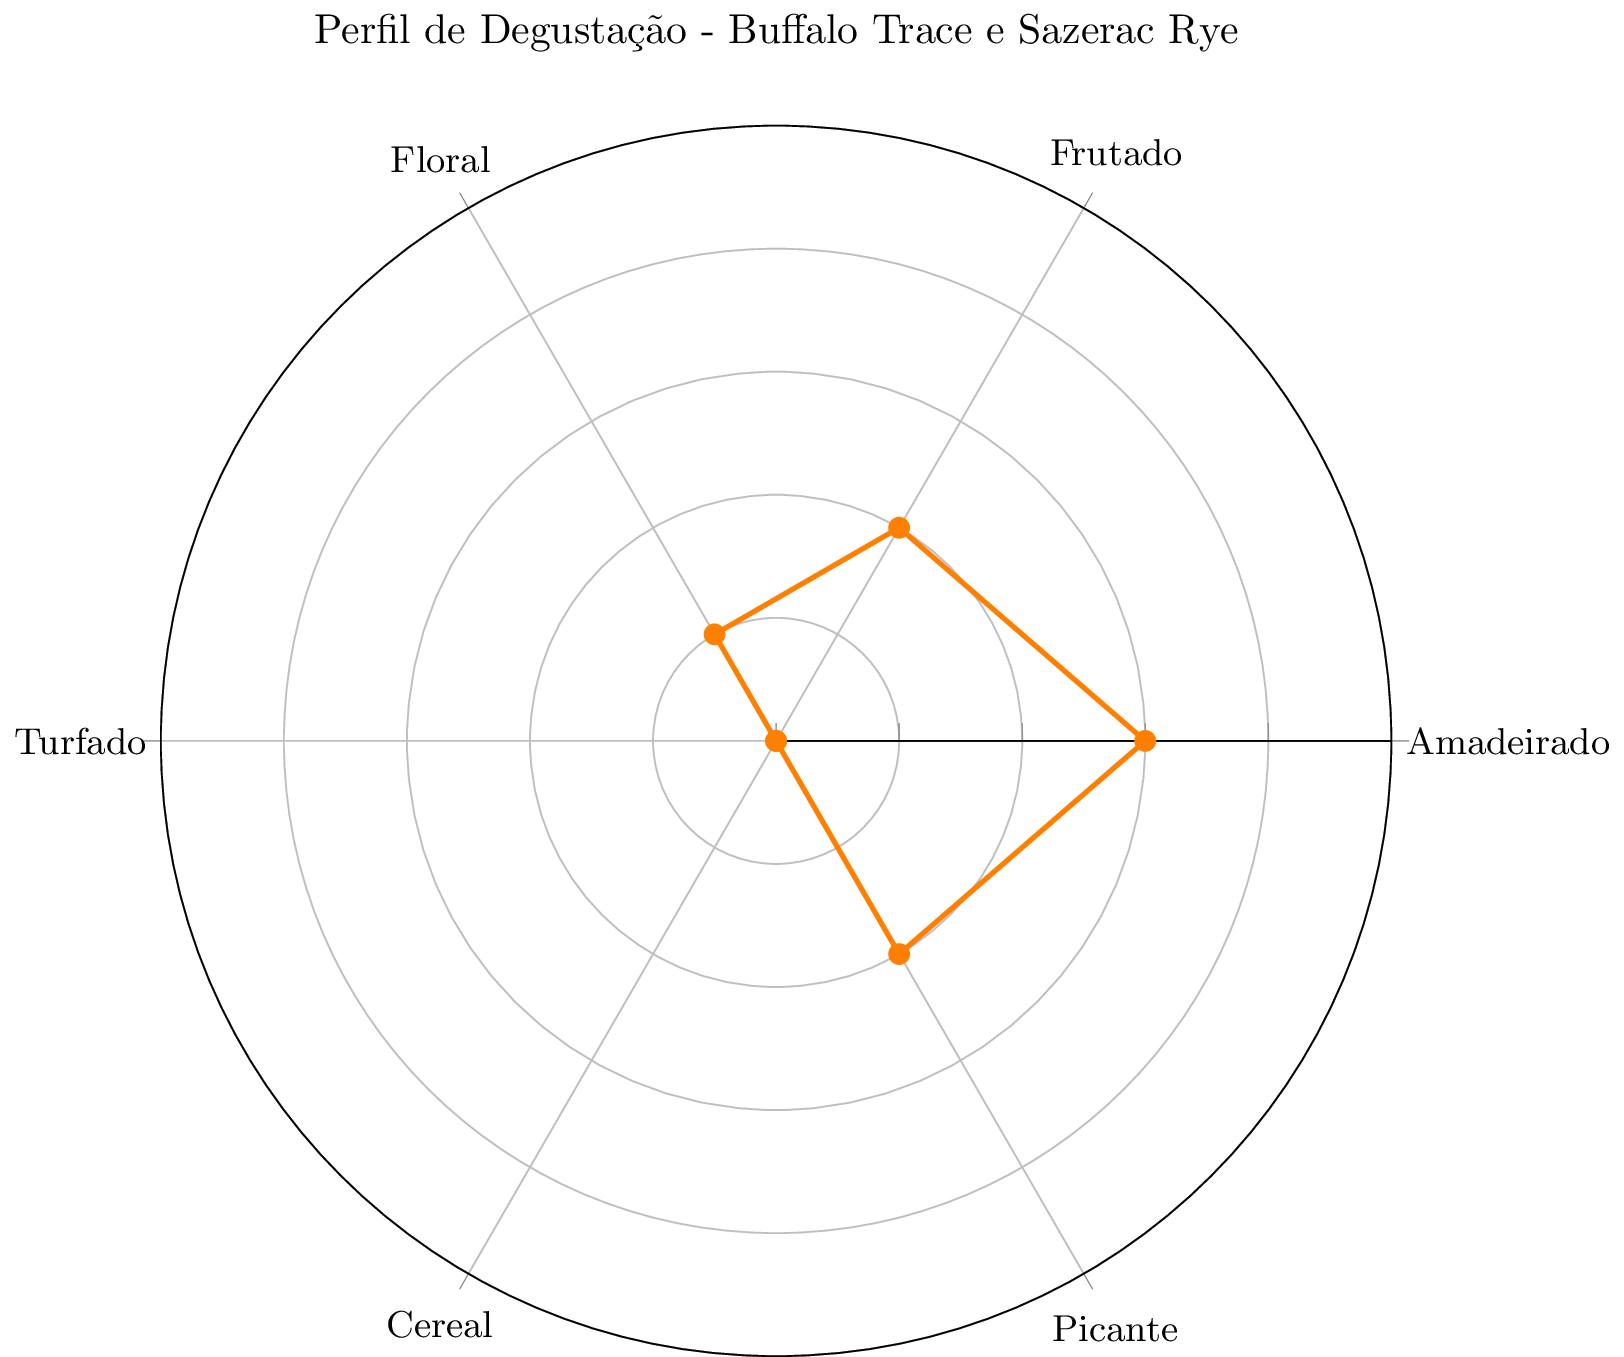
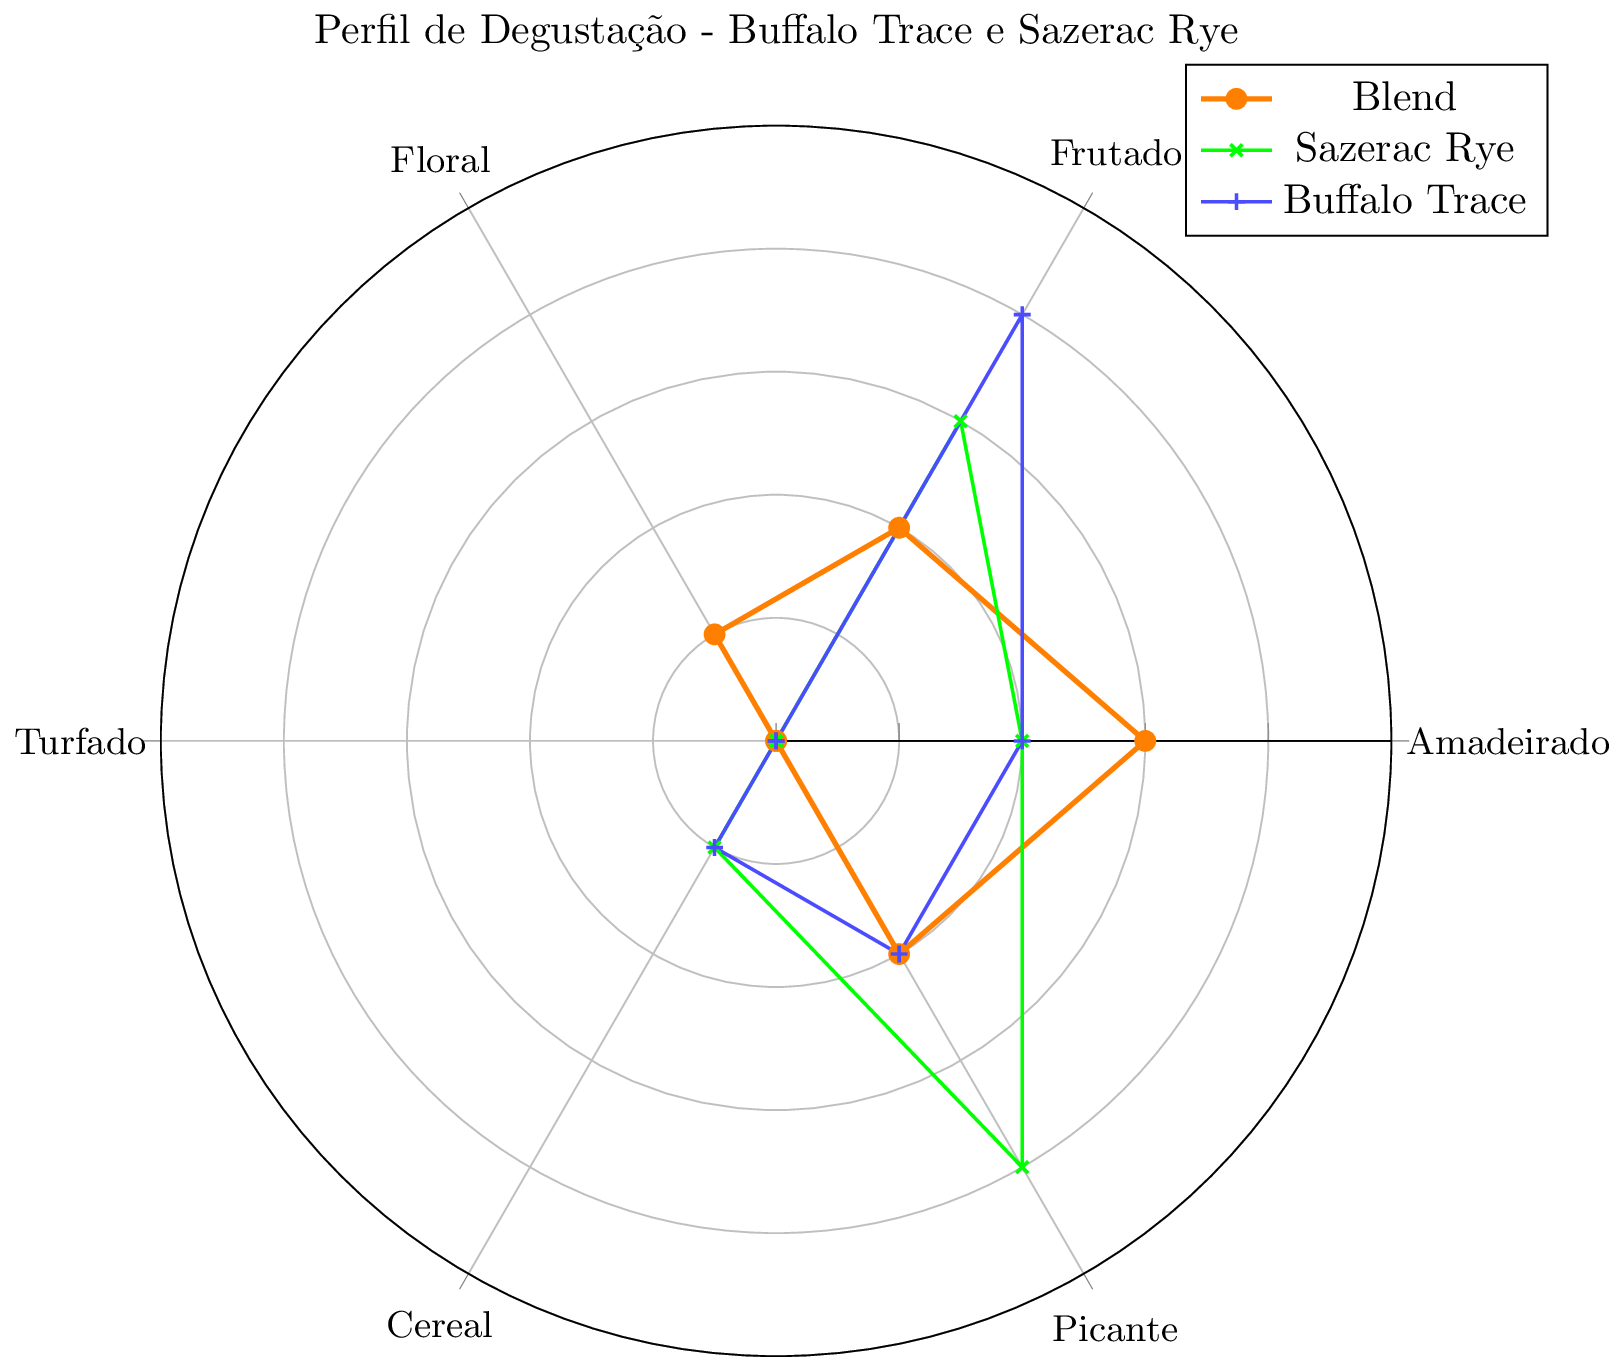
Modificando graficos de perfil de sabor para blends proprios

diff --git a/graficos/buffalosazerac.tex b/graficos/buffalosazerac.tex
@@ -25,6 +25,28 @@
     (240,0) %Cereal
     (300,2) %Picante
 } --cycle;
+	\addlegendentry{Blend}
+
+\addplot+[mark=x,mark size=2,thick,green,mark options={fill=green, draw=green}] coordinates {
+    (0,2) %Amadeirado
+    (60,3) %Frutado
+    (120,0) %Floral
+    (180,0) %Turfado
+    (240,1) %Cereal
+    (300,4) %Picante
+} --cycle;
+	\addlegendentry{Sazerac Rye}
+
+\addplot+[mark=+,mark size=2,thick,blue!70,mark options={fill=blue!70, draw=blue!70}] coordinates {
+    (0,2) %Amadeirado
+    (60,4) %Frutado
+    (120,0) %Floral
+    (180,0) %Turfado
+    (240,1) %Cereal
+    (300,2) %Picante
+} --cycle;
+	\addlegendentry{Buffalo Trace}
+
 \end{polaraxis}
 \end{tikzpicture}
 \end{document}

diff --git a/graficos/glenfiddichtalisker.tex b/graficos/glenfiddichtalisker.tex
@@ -25,6 +25,27 @@
     (240,1) %Cereal
     (300,1) %Picante
 } --cycle;
+	\addlegendentry{Blend}
+
+\addplot+[mark=+,mark size=2,thick,green,mark options={fill=green, draw=green}] coordinates {
+    (0,2) %Amadeirado
+    (60,4) %Frutado
+    (120,3) %Floral
+    (180,0) %Turfado
+    (240,4) %Cereal
+    (300,0) %Picante
+} --cycle;
+	\addlegendentry{Glenfiddich 12}
+
+\addplot+[mark=x,mark size=2,thick,blue!70,mark options={fill=blue!70, draw=blue!70}] coordinates {
+    (0,1) %Amadeirado
+    (60,0) %Frutado
+    (120,0) %Floral
+    (180,4) %Turfado
+    (240,0) %Cereal
+    (300,1) %Picante
+} --cycle;
+	\addlegendentry{Talisker 10}
 \end{polaraxis}
 \end{tikzpicture}
 \end{document}
